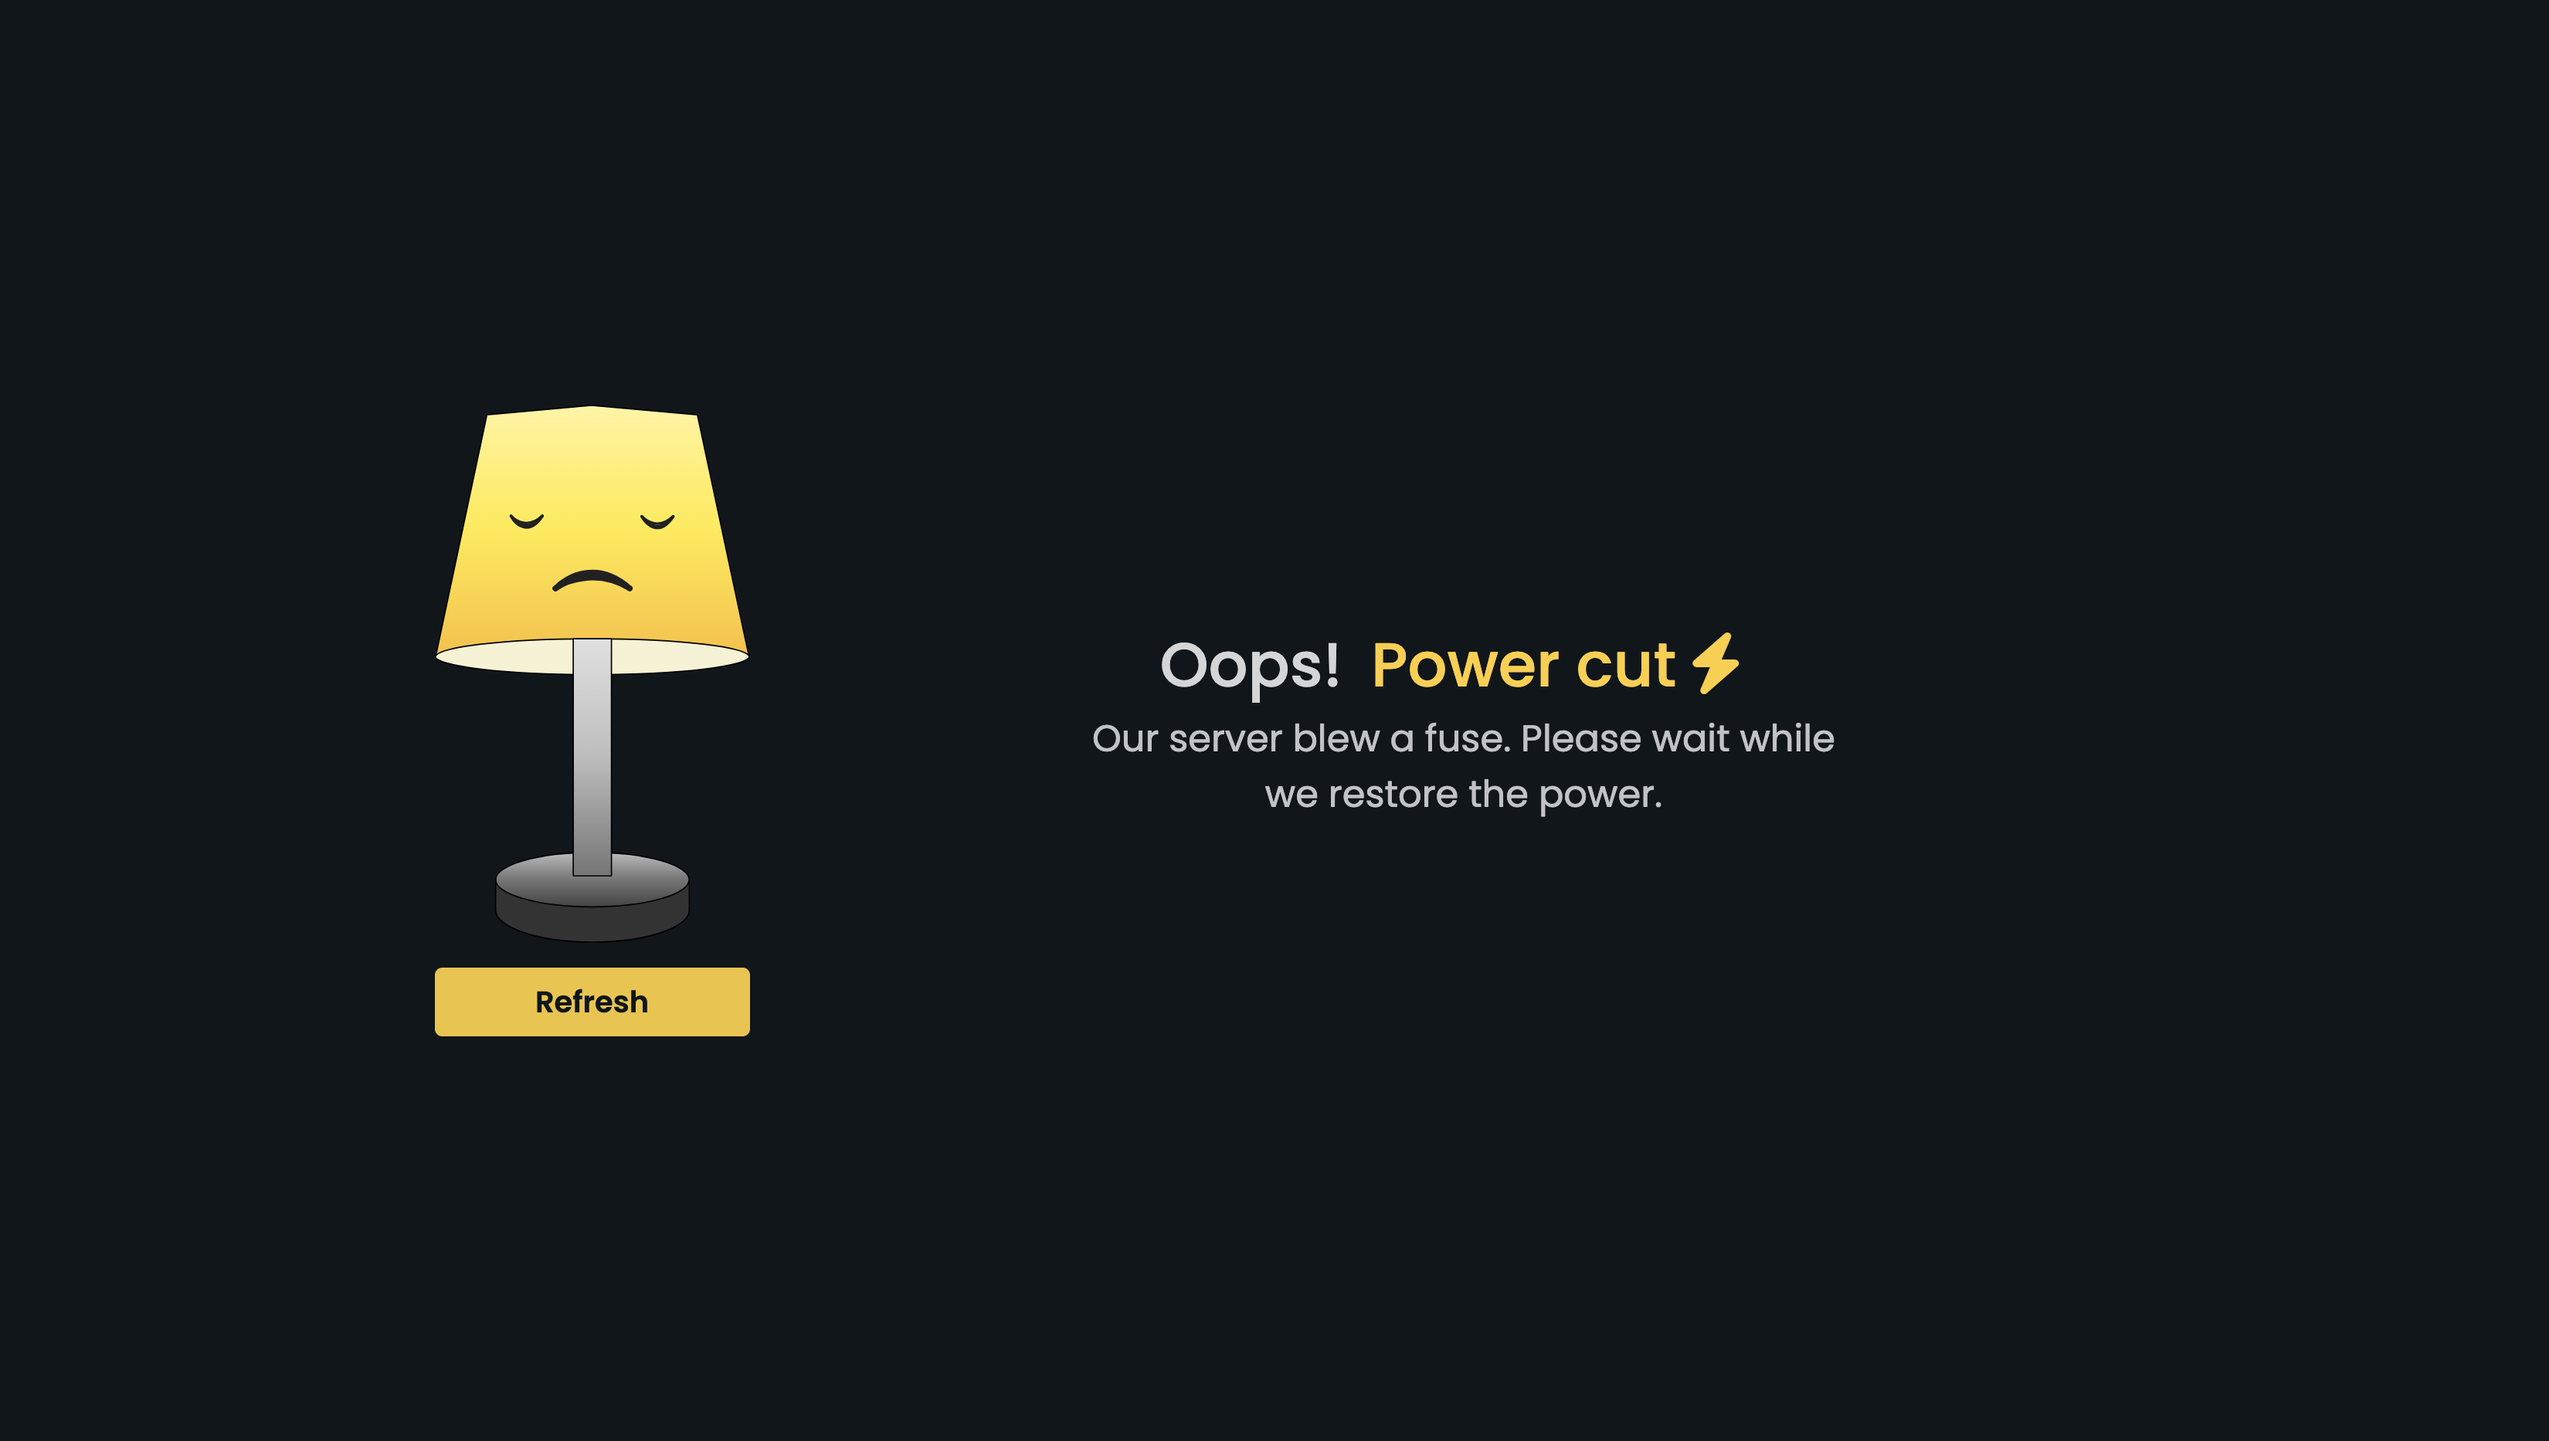
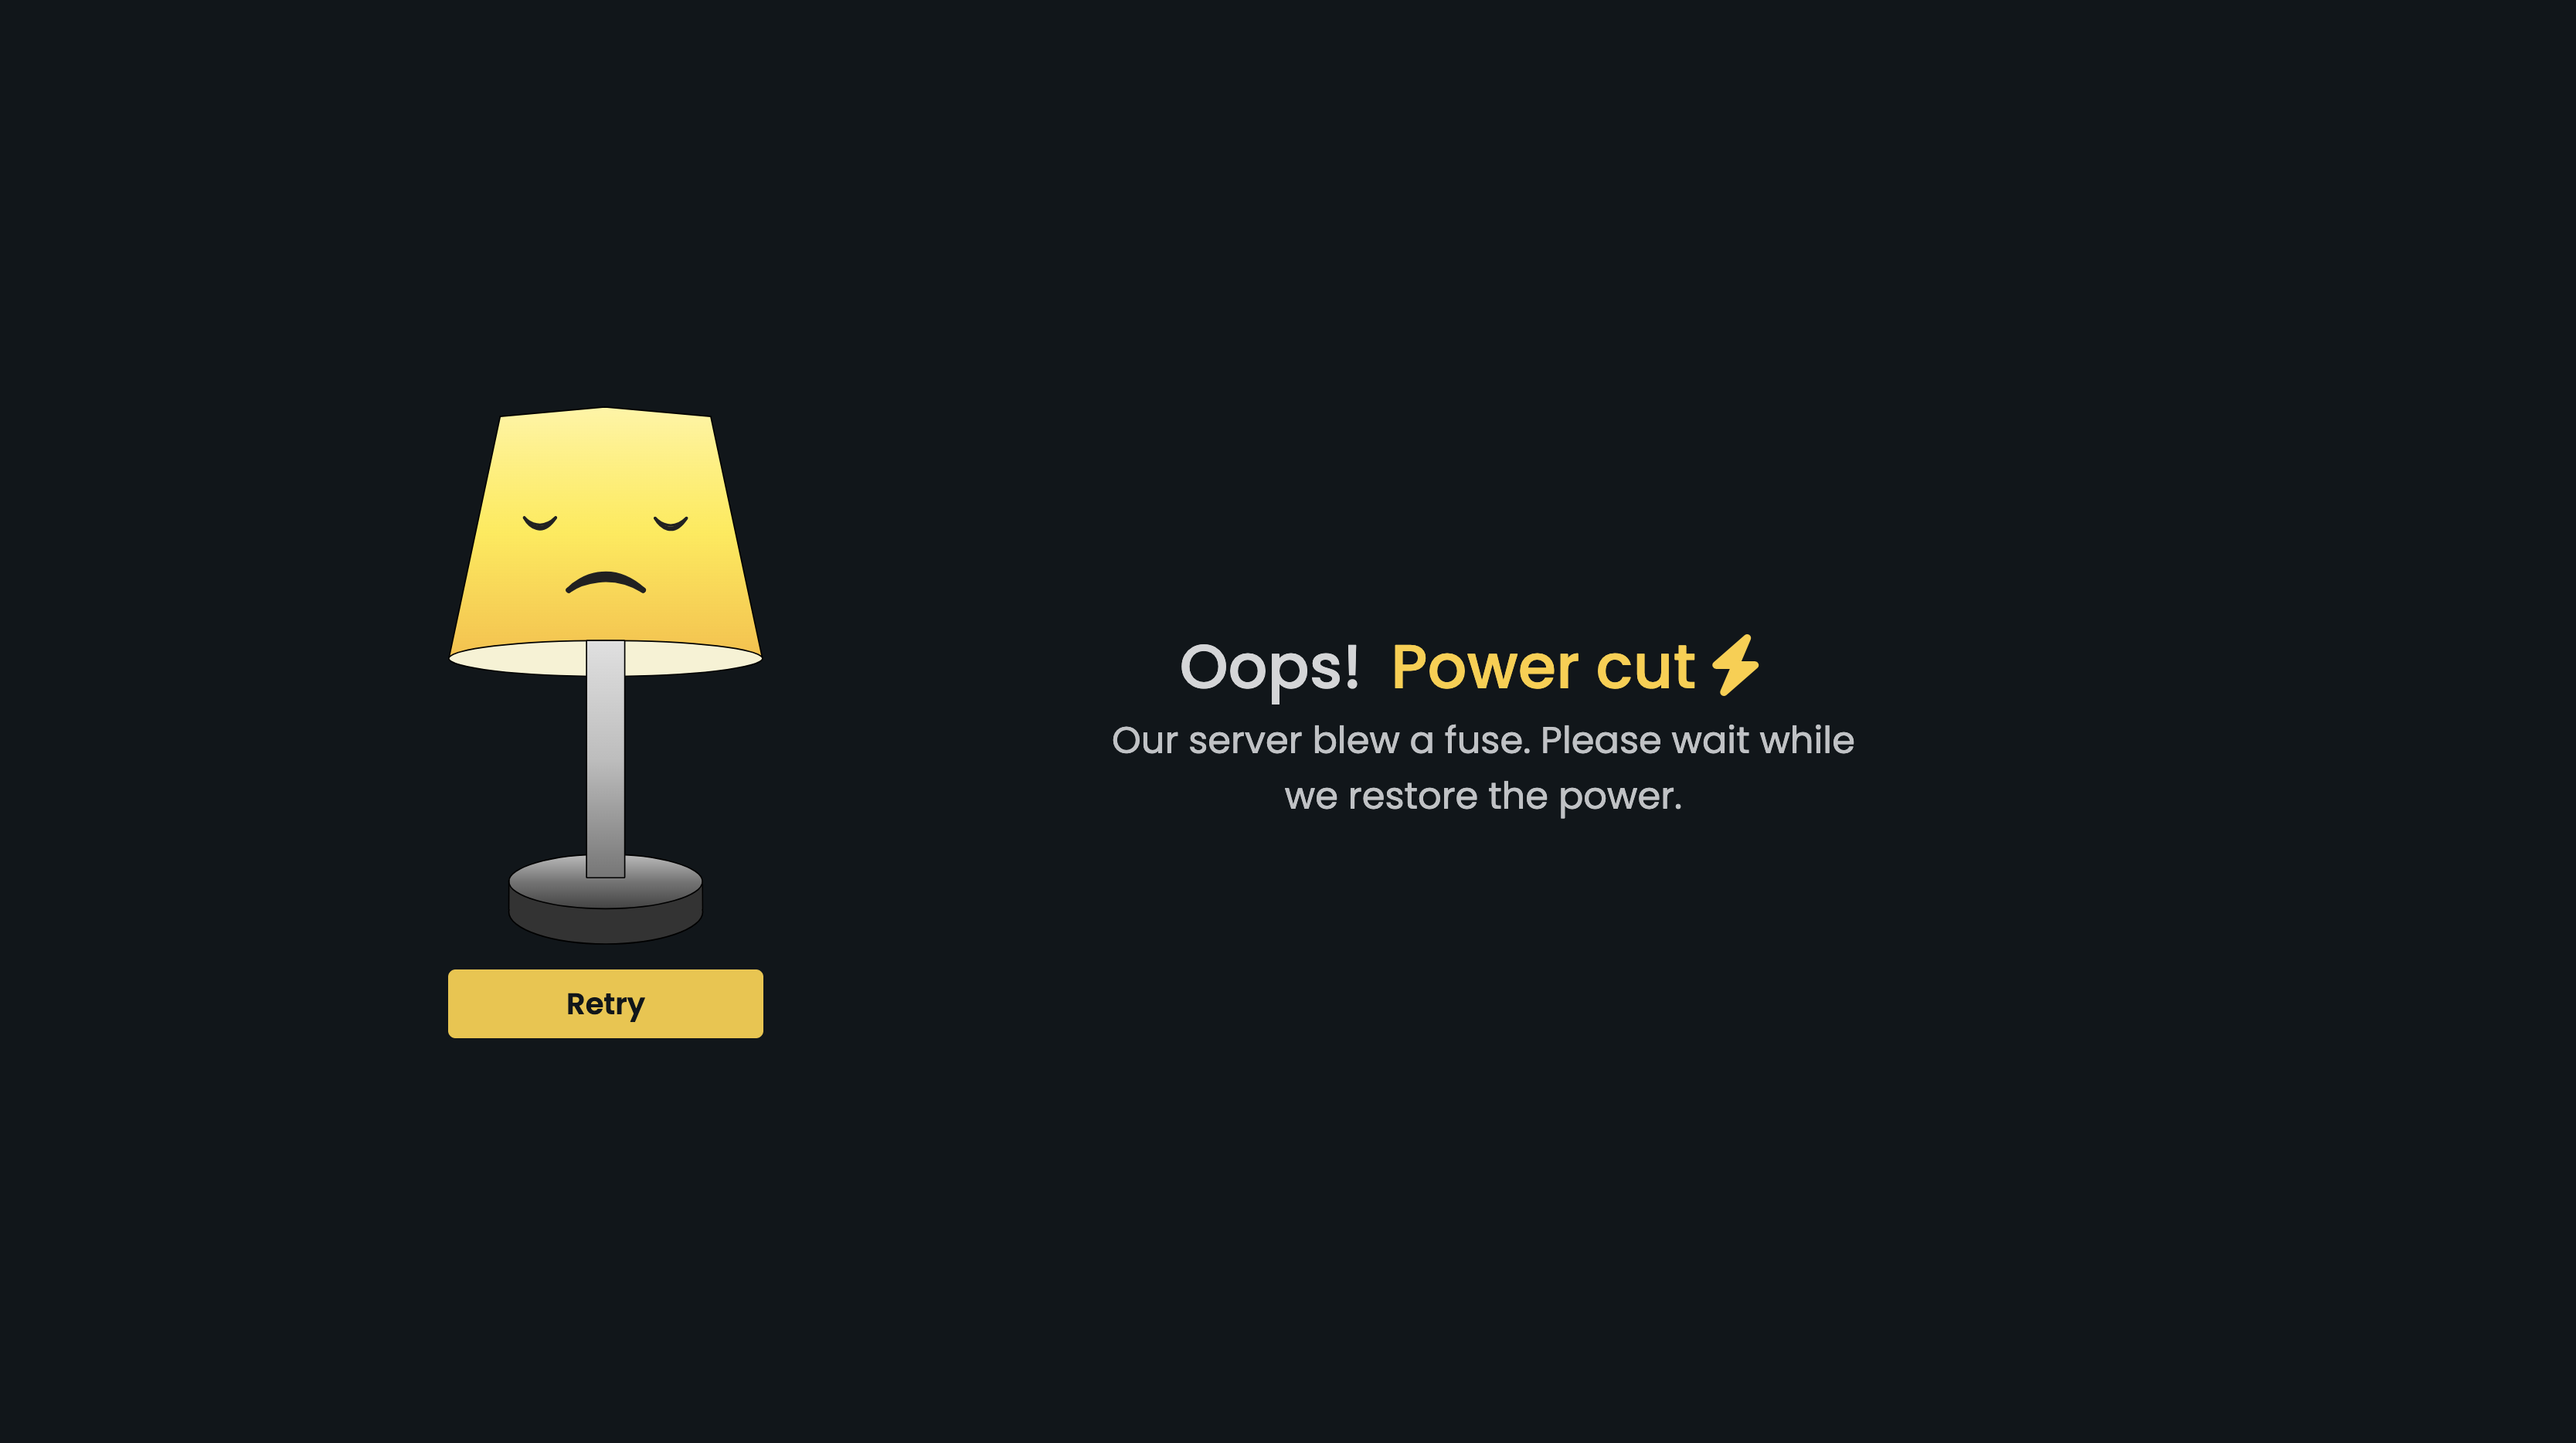
add proper comments and update readme

diff --git a/src/login.js b/src/login.js
@@ -17,6 +17,7 @@ export function userLogin() {
   });
 }
 
+// handle login request
 export async function handleLoginRequest() {
   showLoader();
   hideError("loginFormError");
@@ -26,7 +27,7 @@ export async function handleLoginRequest() {
 
   try {
     const response = await fetch(
-      "https://authentication-service-vdxw.onrender.com/auth/login",
+      "https://authentication-service-vdxyw.onrender.com/auth/login",
       {
         method: "POST",
         headers: {
@@ -205,7 +206,8 @@ async function updateAccessToken() {
     if (!navigator.onLine) {
       showError("loginFormError", "No internet connection");
     } else {
-      console.error("Network or fetch error:", error);
+      hideElement("authPage");
+      showElement("serverErrorContainer");
       isTokenValid = false;
       handleLogoutRequest();
     }

diff --git a/src/main.js b/src/main.js
@@ -35,6 +35,7 @@ export function hideLoader() {
   document.querySelector(".loader").classList.remove("active");
 }
 
+// handle eye opener event
 document.querySelectorAll(".toggle-eye").forEach((icon) => {
   icon.addEventListener("click", () => {
     const targetId = icon.getAttribute("data-target");
@@ -50,10 +51,12 @@ document.querySelectorAll(".toggle-eye").forEach((icon) => {
 
 let currectRequest = null;
 
+// update the current request
 export function setCurrentRequest(requestName) {
   currectRequest = requestName;
 }
 
+// handle retry API request event
 document.getElementById("retryButton").addEventListener("click", () => {
   hideElement("serverErrorContainer");
   switch (currectRequest) {

diff --git a/src/logout.js b/src/logout.js
@@ -8,6 +8,7 @@ export function logout() {
   });
 }
 
+// handle logut request
 export async function handleLogoutRequest() {
   showLoader();
   try {
@@ -56,6 +57,7 @@ export async function handleLogoutRequest() {
   }
 }
 
+// remove cookie when page is reload and remember me is not checked
 window.addEventListener("DOMContentLoaded", async () => {
   showLoader();
   const remember = localStorage.getItem("rememberMe");
@@ -65,6 +67,7 @@ window.addEventListener("DOMContentLoaded", async () => {
   }
 });
 
+// remove cookie when page is close and remember me is not checked
 window.addEventListener("close", async () => {
   showLoader();
   const remember = localStorage.getItem("rememberMe");

diff --git a/src/signUp.js b/src/signUp.js
@@ -18,6 +18,7 @@ export function signUp() {
     });
 }
 
+// validate the user input before sending to server
 export async function validateInput() {
   showLoader();
   const firstName = document.getElementById("firstName").value;
@@ -54,6 +55,7 @@ export async function validateInput() {
   handleSignUpRquest(newEmail, confirmPassword, firstName, lastName);
 }
 
+// handle signUp request
 export async function handleSignUpRquest(
   newEmail,
   confirmPassword,

diff --git a/src/handleVisibility.js b/src/handleVisibility.js
@@ -43,6 +43,7 @@ export function showSuccess(element, message) {
   ele.innerText = message;
 }
 
+// reset all input feilds and error fields
 export function hideInfoFields() {
   document.getElementById("logOutError").style.display = "none";
 

diff --git a/src/forgotPassword.js b/src/forgotPassword.js
@@ -16,6 +16,7 @@ export function forgotPass() {
     });
 }
 
+// handle forgot password request
 export async function handleForgotPassRequest() {
   showLoader();
   const registeredEmail = document.getElementById("registeredEmail").value;

diff --git a/src/changePassword.js b/src/changePassword.js
@@ -12,6 +12,7 @@ export function changePassword() {
     });
 }
 
+// handle change password request
 export async function handleChangePassRequest() {
   showLoader();
   const userMailId = document.getElementById("userMailId").value;

diff --git a/src/toggleSwitch.js b/src/toggleSwitch.js
@@ -10,6 +10,7 @@ export function toggleSwitch() {
   });
 }
 
+// handle the lamp state
 let isLampOn = false;
 export function toggleState() {
   isLampOn = !isLampOn;

diff --git a/README.md b/README.md
@@ -19,7 +19,7 @@ Connected to a backend that enables account creation, login/logout, password res
 - Responsive and minimal UI
 - Smooth transitions
 - Input reset support
-- Custom 500 server error page
+- Custom 500 server error page with retry button
 
 ---
 
